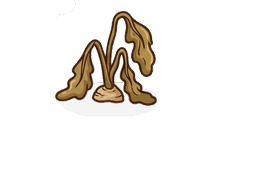
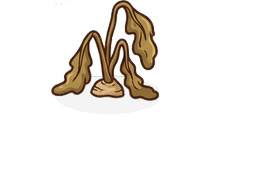
art: all eight of the original crops redrawn, and a cutter that can be trusted
The eight crops lifted out of the SWF are now drawn rather than taken, in
the owner's house style and anchored to a finished object from their own
toolkit. Each is six stages on one sheet, since asking six times gives six
different plants.

Getting one clean sprite off a sheet took four goes at the cutter, and
each failure was a different lesson about not assuming.

The generator ignores the layout it is told to use — asked for two rows of
three it has produced two rows of three, three rows of two, and a scatter
— so drawings are found rather than cut on a grid. Their shadows overlap
before their leaves do, so segmentation ignores anything neutral. Their
leaves overlap too, so pieces are labelled and grouped rather than split on
blank rows.

Then grouping by proximity failed in both directions at once: it split a
handful of seeds into separate stages, and it swallowed a dead plant into
the ripe one beside it, so a tomato arrived in the game with a corpse
standing next to it. The fix is to stop guessing at what belongs together
and use the one thing known for certain — a growth sheet has exactly six
drawings on it — so the pieces are clustered into exactly six by position.
Seeding those clusters from the six heaviest pieces then took two limbs of
the same withered plant and left the seeds and the sprout sharing a cell;
seeding by spread instead puts one on each drawing.

Finally, a sprite is built from its own pixels onto fresh paper rather than
[…]

Changed region(s): [[0.186, 0.0, 0.6202, 0.5882]]

diff --git a/tools/split-sheet.py b/tools/split-sheet.py
@@ -20,6 +20,7 @@ from PIL import Image
 from scipy import ndimage
 
 ROOT = Path(__file__).resolve().parent.parent
+STAGES = 6       # a growth sheet always has exactly this many drawings on it
 NEAR_WHITE = 244
 
 
@@ -60,44 +61,57 @@ def drawings(sheet):
     if not pieces:
         return [], None
 
-    # A drawing is usually one piece of connected ink, but not always: a handful
-    # of seeds is three or four separate blobs. Big pieces are therefore taken as
-    # drawings in their own right and never joined to each other — their boxes
-    # overlap, since a leaf reaches across its neighbour — while small ones are
-    # gathered up by proximity, which is what makes the seeds one drawing.
-    biggest = max(p["size"] for p in pieces)
-    large = [p["box"] for p in pieces if p["size"] >= biggest * 0.15]
-    small = [p["box"] for p in pieces if p["size"] < biggest * 0.15]
+    # A drawing is usually one piece of connected ink, and sometimes several: a
+    # handful of seeds is three or four blobs, and a withered plant sheds leaves
+    # that touch nothing. Merging pieces by how close they are kept getting this
+    # wrong in both directions — it split the seeds apart, and it swallowed a
+    # dead plant into the ripe one standing beside it, so a tomato arrived in the
+    # game with a corpse next to it.
+    #
+    # What is known for certain is the count: a growth sheet has six drawings on
+    # it, no more and no less. So the pieces are grouped into exactly six by
+    # where they sit, which needs no threshold and cannot merge two plants or
+    # split one. Pieces are weighted by size, so a stray leaf joins the plant it
+    # fell from rather than dragging a cluster towards itself.
+    if len(pieces) < STAGES:
+        return [], None
+    centres = np.array([[(p["box"][0] + p["box"][2]) / 2, (p["box"][1] + p["box"][3]) / 2] for p in pieces])
+    weights = np.array([p["size"] for p in pieces], dtype=float)
 
-    NEAR = 60
-    def close(a, b):
-        return (a[0] - NEAR < b[2] and b[0] - NEAR < a[2]
-                and a[1] - NEAR < b[3] and b[1] - NEAR < a[3])
+    # Start from six pieces spread across the sheet, not the six heaviest. The
+    # heaviest can easily be two limbs of the same withered plant, which leaves
+    # one drawing with two clusters and two other drawings sharing a third: the
+    # seeds and the sprout came back in one cell that way, and a single fallen
+    # leaf got a cell of its own. Taking the largest piece first and then
+    # repeatedly the piece furthest from everything already chosen puts exactly
+    # one seed on each drawing.
+    seeds = [centres[int(np.argmax(weights))]]
+    while len(seeds) < STAGES:
+        away = ((centres[:, None, :] - np.array(seeds)[None, :, :]) ** 2).sum(axis=2).min(axis=1)
+        seeds.append(centres[int(np.argmax(away * np.sqrt(weights)))])
+    seeds = np.array(seeds, dtype=float)
+    for _ in range(40):
+        d = ((centres[:, None, :] - seeds[None, :, :]) ** 2).sum(axis=2)
+        belongs = d.argmin(axis=1)
+        moved = 0.0
+        for k in range(STAGES):
+            members = belongs == k
+            if not members.any():
+                continue
+            w = weights[members][:, None]
+            centre = (centres[members] * w).sum(axis=0) / w.sum()
+            moved = max(moved, float(np.abs(centre - seeds[k]).max()))
+            seeds[k] = centre
+        if moved < 0.5:
+            break
 
-    joined = True
-    while joined:
-        joined = False
-        for i in range(len(small)):
-            for j in range(i + 1, len(small)):
-                if close(small[i], small[j]):
-                    a, b = small[i], small[j]
-                    small[i] = [min(a[0], b[0]), min(a[1], b[1]), max(a[2], b[2]), max(a[3], b[3])]
-                    small.pop(j)
-                    joined = True
-                    break
-            if joined:
-                break
-
-    # A stray piece sitting on a big drawing belongs to it; one on its own is a
-    # drawing of its own, which is what the seeds are.
-    boxes = [list(b) for b in large]
-    for s in small:
-        touching = next((b for b in boxes if close(b, s)), None)
-        if touching:
-            touching[:] = [min(touching[0], s[0]), min(touching[1], s[1]),
-                           max(touching[2], s[2]), max(touching[3], s[3])]
-        else:
-            boxes.append(s)
+    boxes = []
+    for k in range(STAGES):
+        members = [pieces[i]["box"] for i in range(len(pieces)) if belongs[i] == k]
+        if not members:
+            return [], None
+        boxes.append([min(b[0] for b in members), min(b[1] for b in members),
+                      max(b[2] for b in members), max(b[3] for b in members)])
 
     # Reading order: down the sheet in bands, left to right inside each.
     boxes.sort(key=lambda b: b[1])
@@ -150,45 +164,51 @@ def main() -> int:
     # whatever is standing on it, so grey is kept only directly below this
     # drawing and cleared everywhere else.
     pad = 30
+    #
+    # Ownership goes by where a piece's middle is, not by how much of it happens
+    # to fall inside a box. A leaf reaching across from the plant next door can
+    # have most of its length inside this box while plainly belonging to the
+    # other one; its middle never does. Counting pixels left a stray leaf beside
+    # three of the eight crops.
     owner = np.zeros(labels.max() + 1, dtype=np.int32)
-    for tag in range(1, labels.max() + 1):
-        ys, xs = np.where(labels == tag)
-        if not len(xs):
-            continue
-        best, most = 0, 0
+    centres = ndimage.center_of_mass(labels > 0, labels, range(1, labels.max() + 1))
+    for tag, (cy, cx) in enumerate(centres, start=1):
         for stage, (x0, y0, x1, y1) in enumerate(boxes, start=1):
-            inside = int(np.count_nonzero((xs >= x0) & (xs < x1) & (ys >= y0) & (ys < y1)))
-            if inside > most:
-                best, most = stage, inside
-        owner[tag] = best
+            if x0 <= cx < x1 and y0 <= cy < y1:
+                owner[tag] = stage
+                break
 
     rgb = np.asarray(Image.open(src).convert("RGB")).astype(np.int16)
     high, low = rgb.max(axis=2), rgb.min(axis=2)
     greyish = (high - low <= 40) & (high < 244) & (high >= 120)
 
+    # Each sprite is built from its own pixels onto fresh paper, rather than cut
+    # out of the sheet with a margin. Cutting with a margin kept pulling in the
+    # neighbours: the drawings sit close enough that their boxes overlap, so
+    # whatever rule decides who owns a piece — most pixels inside, or the middle
+    # inside — there is a sheet where it gets one wrong, and a tomato arrives in
+    # the game with a dead plant standing next to it. Copying only what belongs
+    # to this drawing makes that impossible rather than unlikely.
+    sheet_rgba = np.array(sheet)
     for stage, (x0, y0, x1, y1) in enumerate(boxes, start=1):
-        left, top = max(0, x0 - pad), max(0, y0 - pad)
-        right, bottom = min(sheet.width, x1 + pad), min(sheet.height, y1 + pad)
-        art = np.array(sheet.crop((left, top, right, bottom)))
-
-        tags = labels[top:bottom, left:right]
-        mine = np.isin(tags, np.where(owner == stage)[0]) & (tags != 0)
-        # The shadow this one casts: grey, under its own width.
+        mine = np.isin(labels, np.where(owner == stage)[0]) & (labels != 0)
+        # The shadow it casts: grey, beneath its own width, within reach below.
         under = np.zeros_like(mine)
-        under[:, max(0, x0 - left):max(0, x1 - left)] = True
-        shadow = greyish[top:bottom, left:right] & under
-        # Keep this drawing and the shadow under it; everything else in the box
-        # is paper. Clearing only what is labelled left the odd speck and the
-        # pale rim of a neighbour's shadow behind, since neither is ink.
-        #
-        # The mask is grown a little first: it was built from a hard ink
-        # threshold, so the soft pixels along this drawing's own outline are not
-        # in it, and clearing them would file the edge flat.
-        keep = ndimage.binary_dilation(mine, iterations=3) | shadow
-        art[~keep] = (255, 255, 255, 255)
+        under[y0:min(sheet.height, y1 + 60), x0:x1] = True
+        keep = ndimage.binary_dilation(mine, iterations=3) | (greyish & under)
+        if not keep.any():
+            continue
+        ys, xs = np.where(keep)
+        top, bottom = ys.min(), ys.max() + 1
+        left, right = xs.min(), xs.max() + 1
 
+        pad = 12
+        art = np.full((bottom - top + pad * 2, right - left + pad * 2, 4), 255, dtype=np.uint8)
+        window = keep[top:bottom, left:right]
+        art[pad:pad + (bottom - top), pad:pad + (right - left)][window] = \
+            sheet_rgba[top:bottom, left:right][window]
         Image.fromarray(art).save(out / f"crop-{name}-{stage}.png")
-        print(f"  stage {stage}: {right - left}x{bottom - top}")
+        print(f"  stage {stage}: {art.shape[1]}x{art.shape[0]}")
     print(f"wrote 6 stages to generated/crop-{name}-*.png")
     return 0
 
